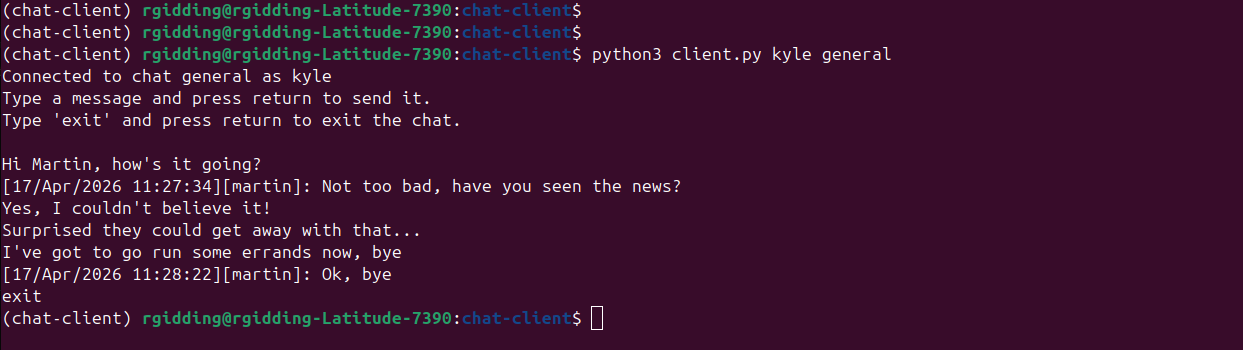
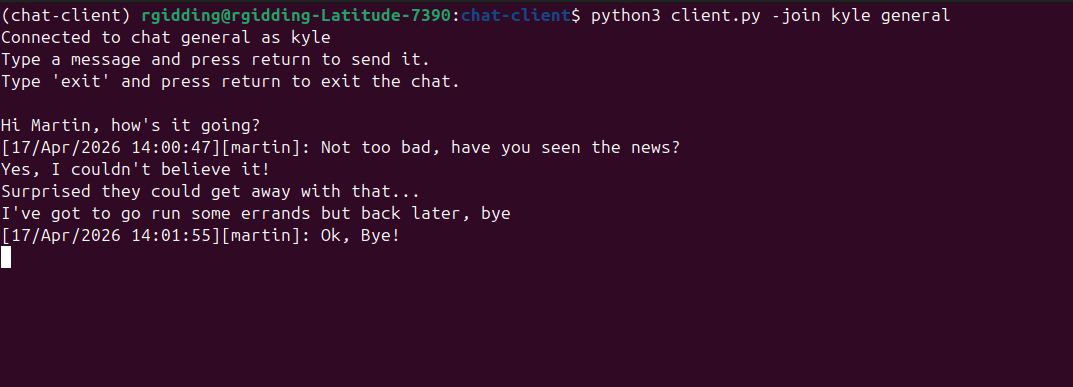
Option to display active channels

Changed region(s): [[0.0, 0.0, 0.8919, 0.9429]]

diff --git a/client.py b/client.py
@@ -8,6 +8,17 @@ from decouple import config
 BASE_URL = config("BASE_URL")
 
 
+def get_active_channels():
+    
+    channels = requests.Session().get(f"{BASE_URL}/active_channels")
+
+    if channels.content:
+        print("Active channels:")
+        print(channels.content.decode('ascii'))
+    else:
+        print("There are currently no active channels.")
+
+
 def connect(url, username, channel):
 
     try:
@@ -30,6 +41,7 @@ def connect(url, username, channel):
         print("An unknown error occurred.")
         os._exit(1)
 
+
 def chat(user, channel):
     while True:
         text = input()
@@ -41,12 +53,20 @@ def chat(user, channel):
 if __name__ == "__main__":
 
     parser = argparse.ArgumentParser()
-    parser.add_argument("username")
-    parser.add_argument("channel")
+    parser.add_argument('-list', action='store_true')
+    parser.add_argument('-join', nargs=2)
     args = parser.parse_args()
 
-    thread1 = threading.Thread(target=connect, args=(f"{BASE_URL}/stream",args.username, args.channel,))
-    thread1.start()
+    if args.list:
+        get_active_channels()
+    
+    if args.join:
+        args_list = args.join
+        username = args_list[0]
+        channel = args_list[1]
 
-    thread2 = threading.Thread(target=chat, args=(args.username,args.channel,))
-    thread2.start()
+        thread1 = threading.Thread(target=connect, args=(f"{BASE_URL}/stream", username, channel,))
+        thread1.start()
+
+        thread2 = threading.Thread(target=chat, args=(username,channel,))
+        thread2.start()

diff --git a/README.md b/README.md
@@ -20,9 +20,11 @@ BASE_URL - the url for the Flask chat server e.g. http://127.0.0.1:5000
 
 We can then run multiple chat clients from the command line using a command like:
 ```
-python3 client.py <username> <chat_name>
+python3 client.py -join <username> <chat_name>
 ```
 where we replace the *username* with the name we want to be known as in the chat and *chat_name* with the chat we want to connect to.
+
+If we want to see to see the active channels we can add the *-list* flag either on its own or with the above command to see the channels that have already been created.
 
 ## Screenshots
 
